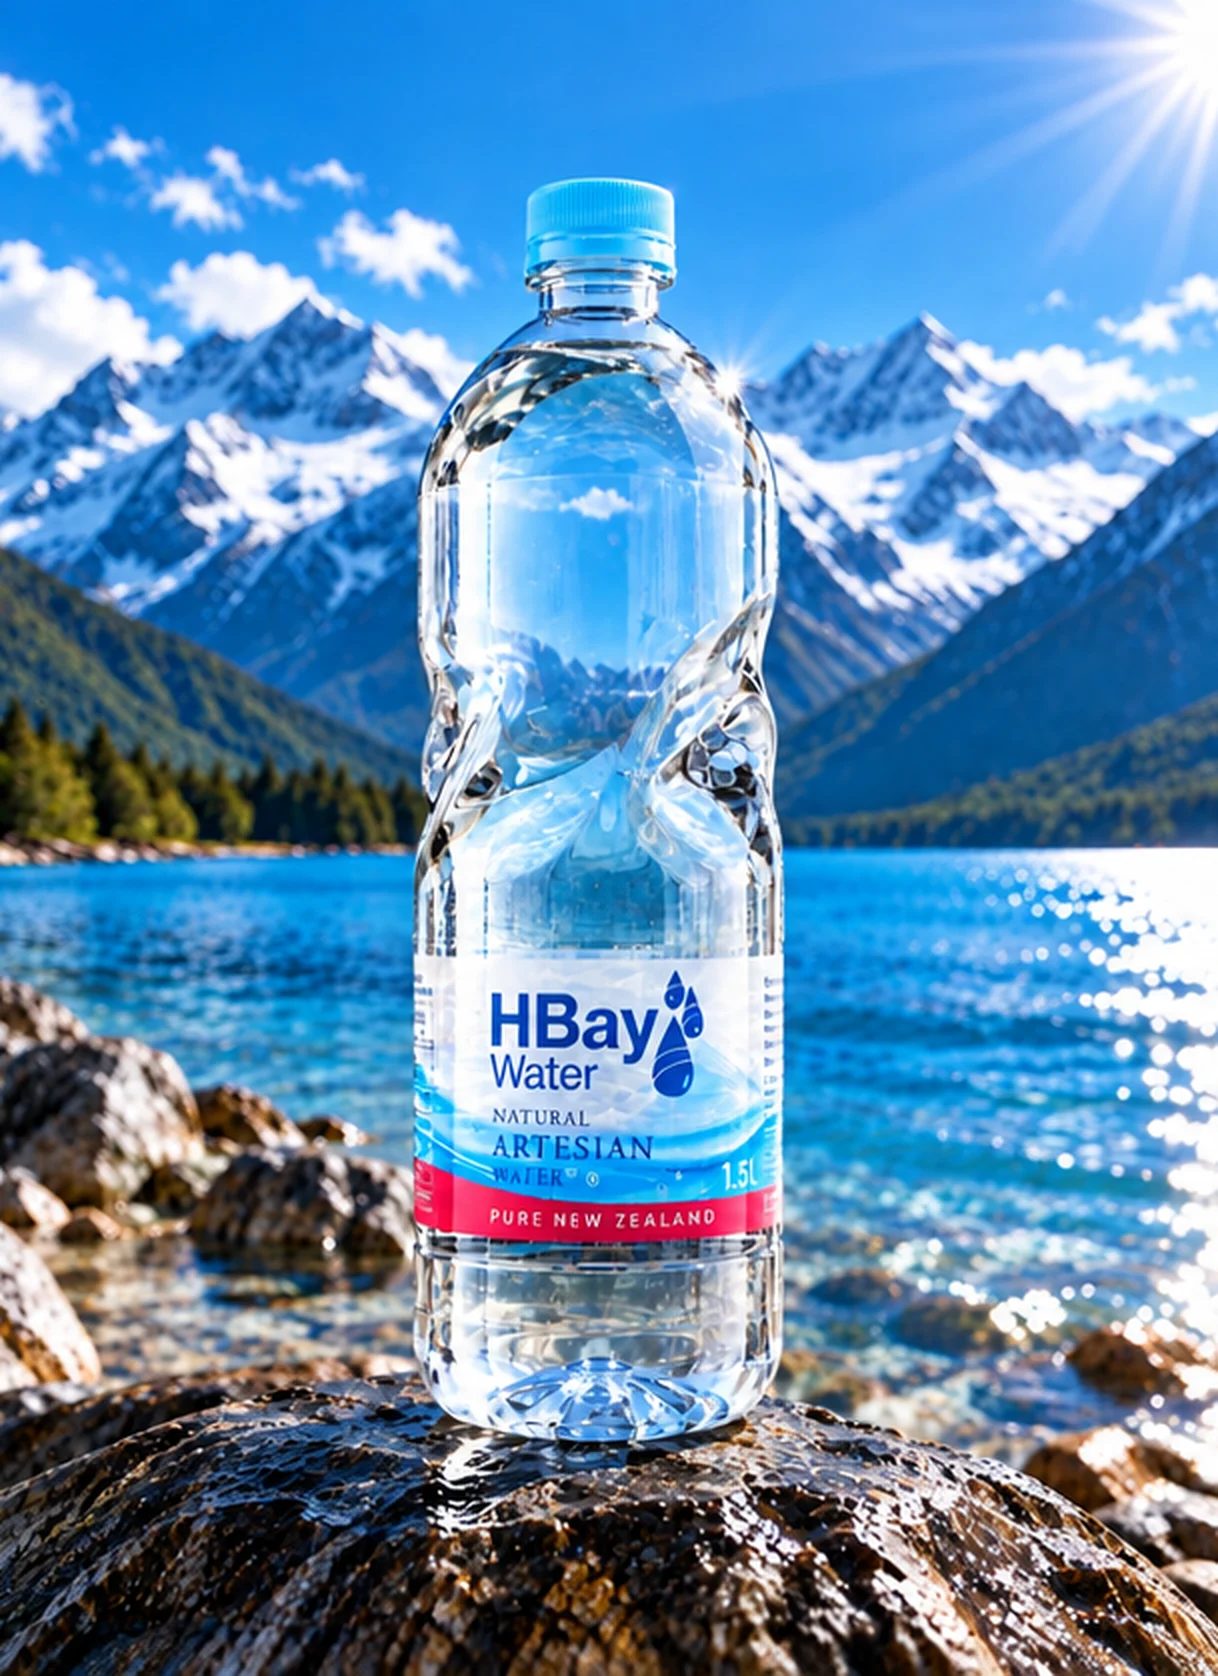
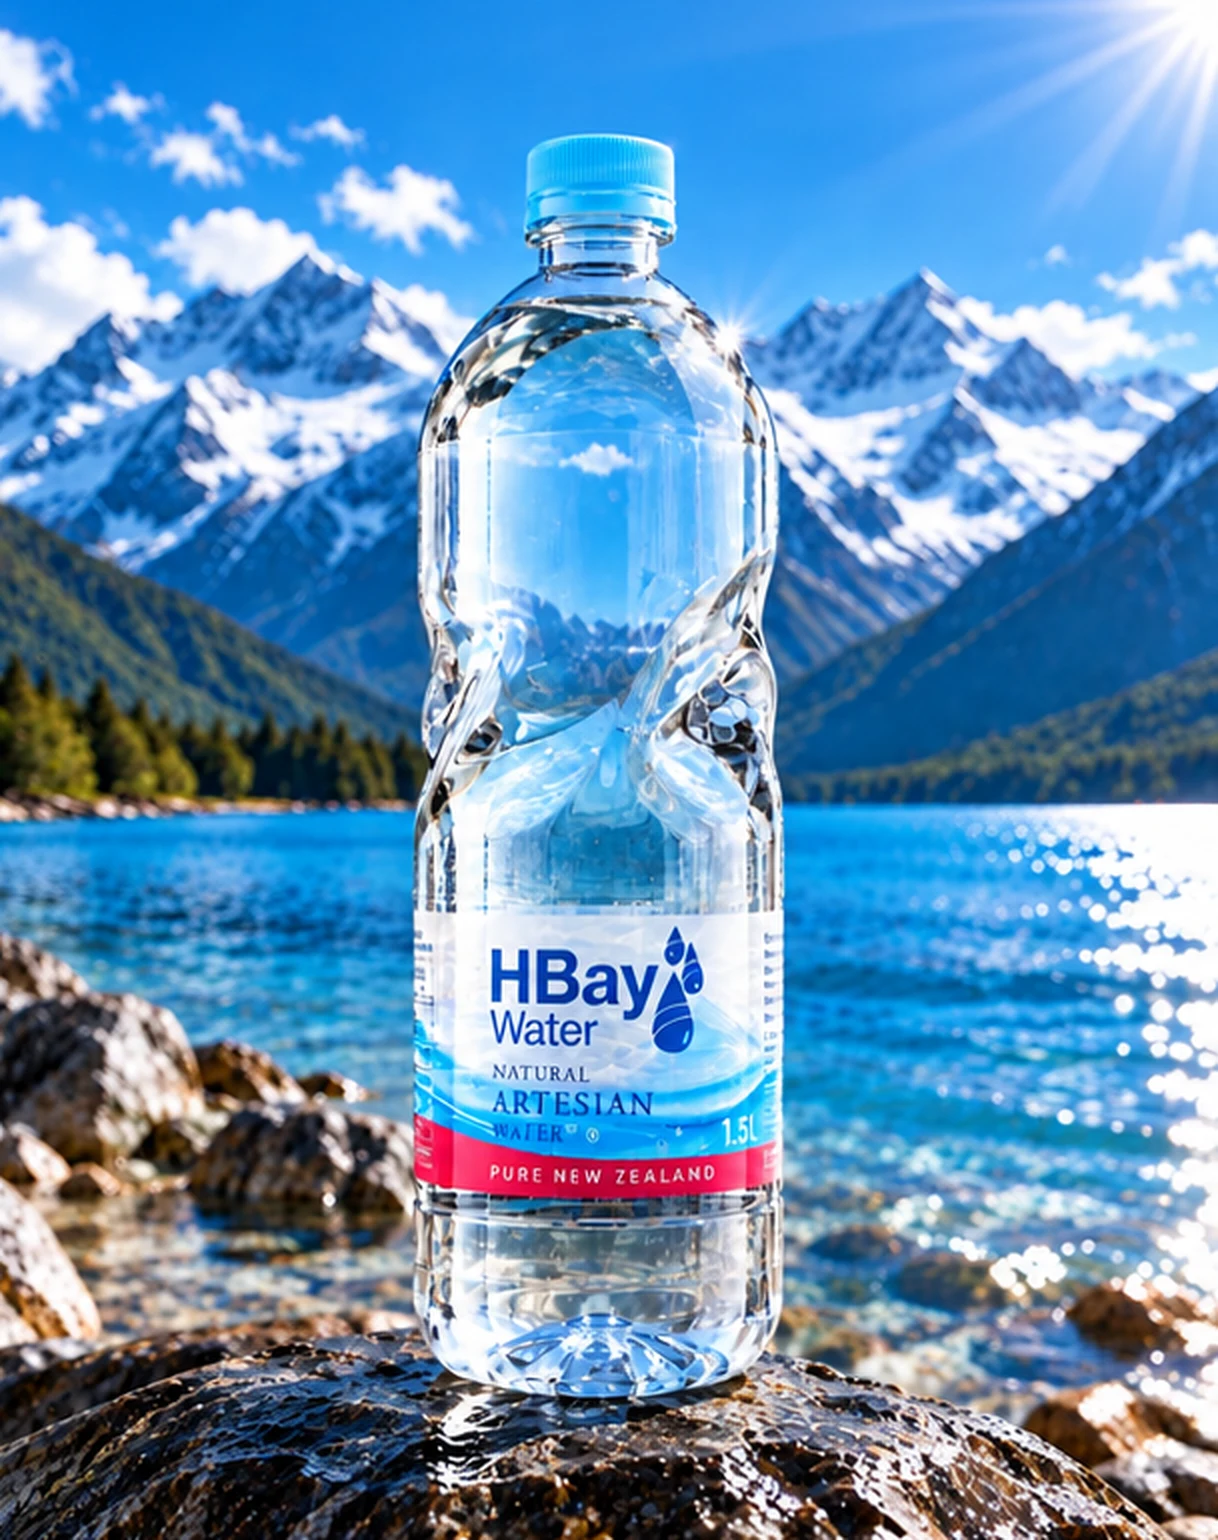
Home hero: show the full bottle (cap to base) instead of a cropped one

diff --git a/design/index.html b/design/index.html
@@ -19,7 +19,7 @@
 </style><link rel="stylesheet" href="demo.css"><link rel="stylesheet" href="lifestyle.css"><link rel="stylesheet" href="brand-v5.css"></head><body>
 <div class="review"><span>Magic Engine · 网站设计演示 <span class="demo-status">DESIGN DEMO</span></span><a href="review.html">设计说明 ↗</a></div>
 <header class="nav"><a class="logo" href="#" aria-label="HBay Water home"><img src="../assets/brand/hbay-logo.svg" alt="HBay Water"></a><nav class="links" id="navigation"><a href="our-water.html">Our water</a><a href="#range">Our range</a><a href="#factory">Our factory</a><a href="partner.html">Partner with HBay</a></nav><div class="nav-actions"><span class="locale">NEW ZEALAND / EN</span><a class="button" href="#buy">Where to buy <span class="arrow">↗</span></a><button class="menu" aria-label="Open navigation" aria-expanded="false" onclick="let n=document.querySelector('.links');n.classList.toggle('open');this.setAttribute('aria-expanded',n.classList.contains('open'))">☰</button></div></header>
-<main><section class="hero"><div class="hero-copy"><h1 class="hero-title"><span class="hero-title-main">Artesian Water<br>from Hawke’s Bay</span><span class="hero-tagline"><em>More Natural</em> <span class="living">Better Living</span></span></h1><p class="intro">A place at your table. A moment in the sun. Natural artesian water from Hawke’s Bay, for a life well lived.</p><div class="cta"><a class="button" href="#range">Explore the range <span class="arrow">→</span></a><a class="textlink" href="#water">Go to the source <span>↗</span></a></div></div><div class="hero-photo"><img src="../assets/lifestyle/hero-peaks-bottle.webp" width="1242" height="1676" fetchpriority="high" alt="AI concept image: an HBay bottle on a rock beside a clear lake, with snow-capped peaks behind"><span class="number">NATURE, IN YOUR EVERYDAY</span><span class="photo-caption">HBay lifestyle concept · AI-generated imagery</span></div></section>
+<main><section class="hero"><div class="hero-copy"><h1 class="hero-title"><span class="hero-title-main">Artesian Water<br>from Hawke’s Bay</span><span class="hero-tagline"><em>More Natural</em> <span class="living">Better Living</span></span></h1><p class="intro">A place at your table. A moment in the sun. Natural artesian water from Hawke’s Bay, for a life well lived.</p><div class="cta"><a class="button" href="#range">Explore the range <span class="arrow">→</span></a><a class="textlink" href="#water">Go to the source <span>↗</span></a></div></div><div class="hero-photo"><img src="../assets/lifestyle/hero-peaks-bottle.webp" width="1218" height="1540" fetchpriority="high" alt="AI concept image: an HBay bottle on a rock beside a clear lake, with snow-capped peaks behind"><span class="number">NATURE, IN YOUR EVERYDAY</span><span class="photo-caption">HBay lifestyle concept · AI-generated imagery</span></div></section>
 <div class="ribbon"><span>From Hawke’s Bay, New Zealand</span><span>Natural artesian water</span><span>A size for your everyday</span></div>
 <section class="retail-story" id="buy" aria-label="HBay in New Zealand"><div><p class="eyebrow">AT HOME IN NEW ZEALAND</p><h2>From Hawke’s Bay to everyday New Zealand.</h2></div><div class="retail-proof"><div class="retail-logos"><a href="https://www.paknsave.co.nz/shop/search?pg=1&amp;q=hbay" target="_blank" rel="noopener"><img src="../assets/retail/paknsave.jpg" alt="Find HBay at PAK’nSAVE"></a><a href="https://www.newworld.co.nz/shop/search?pg=1&amp;q=hbay" target="_blank" rel="noopener"><img src="../assets/retail/newworld.jpg" alt="Search HBay at New World"></a><a href="https://www.foursquare.co.nz/store-finder" target="_blank" rel="noopener"><img src="../assets/retail/foursquare.jpg" alt="Find your local Four Square"></a></div><p>Find HBay through familiar New Zealand retailers. Range and availability vary by store; check with your local Four Square.</p></div></section><section class="retail-photos-wrap"><div class="retail-photos"><figure><img src="../assets/retail/shelf-1.webp" alt="HBay multipacks stacked in a New Zealand supermarket" loading="lazy"></figure><figure><img src="../assets/retail/shelf-2.webp" alt="HBay water on a supermarket aisle display" loading="lazy"></figure><figure><img src="../assets/retail/shelf-3.webp" alt="HBay no-label multipacks on a retail pallet" loading="lazy"><figcaption>In store, New Zealand</figcaption></figure></div></section>
 <section class="range" id="range"><div class="section-head"><div><p class="eyebrow">FIND YOUR EVERYDAY</p><h2>Good water.<br>However your day flows.</h2></div><a class="textlink" href="#range" onclick="showInfo('range');return false">Explore the range <span>↗</span></a></div>

diff --git a/design/brand-v5.css b/design/brand-v5.css
@@ -101,5 +101,8 @@
 .hero-title-main{display:block;font-size:clamp(52px,5.4vw,84px);line-height:1.04;letter-spacing:-3px;font-weight:500;color:var(--ink)}
 .hero-tagline{display:block;margin-top:22px;font-size:clamp(24px,2.3vw,34px);line-height:1.2;letter-spacing:-1px;font-weight:450}
 .hero-tagline em{font-style:normal;color:var(--blue)}
-.hero-photo img{object-position:center 12%}
+.hero-photo img{object-position:center center}
 @media(max-width:650px){.hero-title-main{font-size:clamp(40px,11.5vw,56px);letter-spacing:-2px}.hero-tagline{font-size:22px}.hero-photo img{height:100%}}
+.hero-photo img{height:100%!important;width:100%!important;top:0;bottom:auto;left:0;object-fit:cover;object-position:center center}
+.hero-photo::before{content:'';position:absolute;inset:-30px;background:url(../assets/lifestyle/hero-peaks-bottle.webp) center/cover no-repeat;filter:blur(26px) saturate(1.1)}
+.hero-photo img{object-fit:contain!important;-webkit-mask-image:linear-gradient(90deg,transparent 0,#000 14%,#000 86%,transparent 100%);mask-image:linear-gradient(90deg,transparent 0,#000 14%,#000 86%,transparent 100%)}
